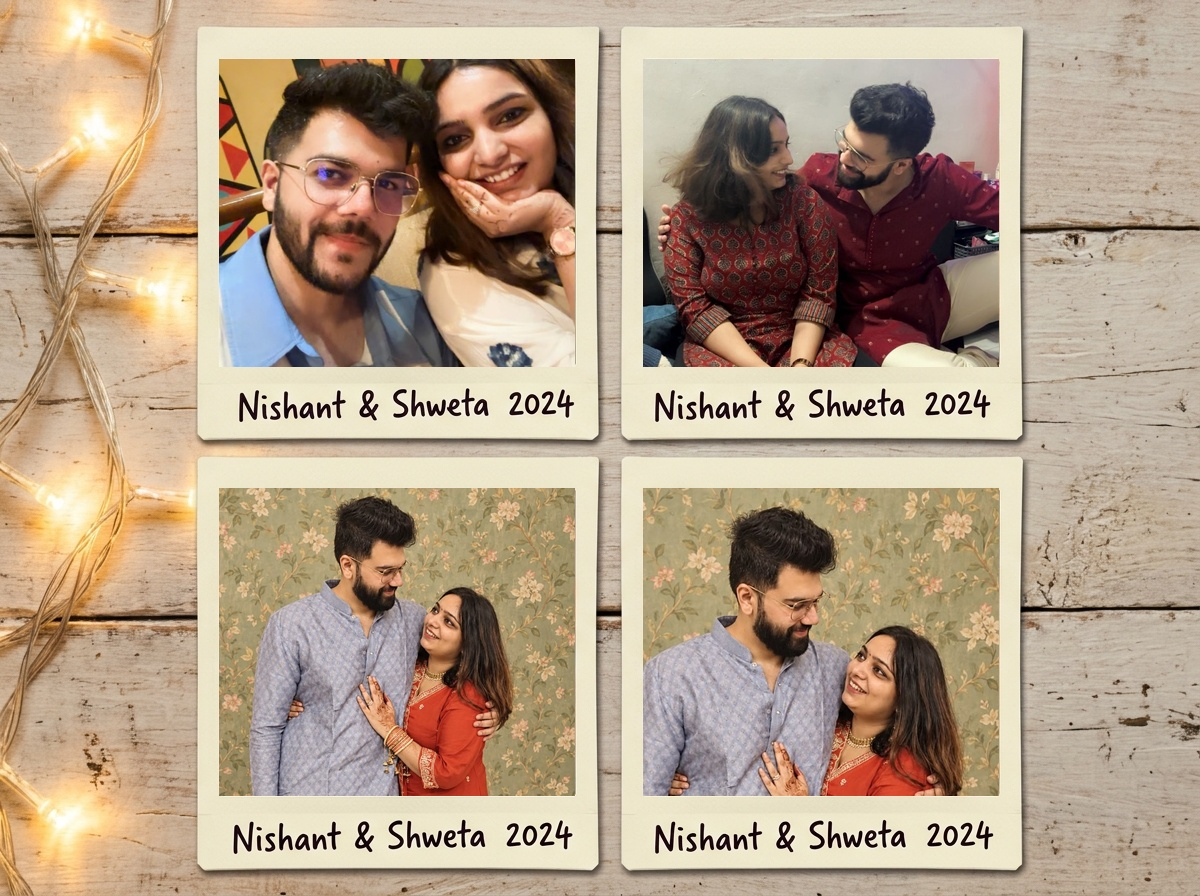
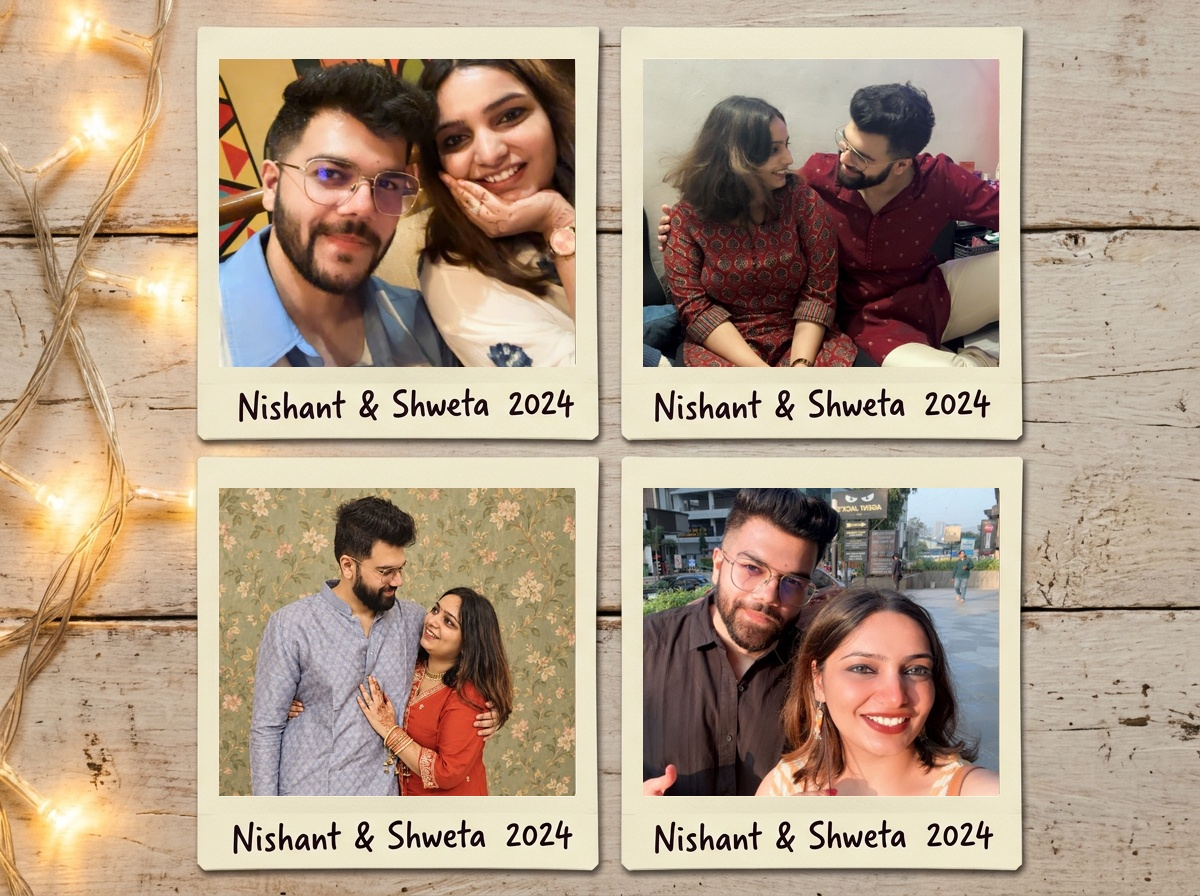
Update chapter 1 couple photo, complete 4-photo story collage, and update ceremony time to 12:20 PM

Changed region(s): [[0.5242, 0.5312, 0.8325, 0.9062]]

diff --git a/js/main.js b/js/main.js
@@ -294,7 +294,7 @@ document.addEventListener('DOMContentLoaded', () => {
   }
 
   // --- 8. REAL-TIME COUNTDOWN TIMER ---
-  const weddingDate = new Date('2026-12-12T12:00:00+05:30').getTime();
+  const weddingDate = new Date('2026-12-12T12:20:00+05:30').getTime();
 
   function updateCountdown() {
     const now = new Date().getTime();
@@ -332,9 +332,9 @@ document.addEventListener('DOMContentLoaded', () => {
   if (btnGoogleCal) {
     btnGoogleCal.addEventListener('click', () => {
       const title = encodeURIComponent("Wedding Celebration of Nishant & Shweta");
-      const details = encodeURIComponent("Together with our families, we joyfully invite you to celebrate our royal wedding!\n\nTiming: 12:00 PM Onwards\nVenue: Bhanushali Wadi Banquet Hall, Nerul East, Navi Mumbai");
+      const details = encodeURIComponent("Together with our families, we joyfully invite you to celebrate our royal wedding!\n\nTiming: 12:20 PM Onwards\nVenue: Bhanushali Wadi Banquet Hall, Nerul East, Navi Mumbai");
       const location = encodeURIComponent("Bhanushali Wadi Banquet Hall, Basteshwar Maharaj Marg, Sector 10A, Nerul East, Navi Mumbai 400706");
-      const startIso = "20261212T063000Z";
+      const startIso = "20261212T065000Z";
       const endIso = "20261212T173000Z";
       const url = `https://calendar.google.com/calendar/render?action=TEMPLATE&text=${title}&dates=${startIso}/${endIso}&details=${details}&location=${location}`;
       window.open(url, '_blank');
@@ -354,7 +354,7 @@ document.addEventListener('DOMContentLoaded', () => {
         'BEGIN:VEVENT',
         'UID:nishant-shweta-wedding-2026@wedding.invitation',
         'DTSTAMP:20261212T000000Z',
-        'DTSTART:20261212T063000Z',
+        'DTSTART:20261212T065000Z',
         'DTEND:20261212T173000Z',
         'SUMMARY:Nishant & Shweta Royal Wedding',
         'DESCRIPTION:Together with our families, we joyfully invite you to celebrate the wedding of Nishant & Shweta.',
@@ -419,7 +419,7 @@ document.addEventListener('DOMContentLoaded', () => {
         `Together with our families, we joyfully invite you to celebrate the wedding of\n` +
         `*Nishant & Shweta*\n\n` +
         `🗓 Date: Saturday, 12 December 2026\n` +
-        `⏰ Timing: 12:00 PM Onwards\n` +
+        `⏰ Timing: 12:20 PM Onwards\n` +
         `📍 Venue: Bhanushali Wadi Banquet Hall, Nerul East, Navi Mumbai\n\n` +
         `Open our royal interactive wedding card:\n${inviteUrl}`
       );

diff --git a/index.html b/index.html
@@ -285,7 +285,7 @@
           <div class="scene-visual-col">
             <div class="hero-photo-showcase">
               <div class="photo-gold-border-decor" aria-hidden="true"></div>
-              <img src="assets/images/couple_palace_walk.jpg" alt="Nishant &amp; Shweta Palace Walk" class="hero-photo-img" loading="lazy">
+              <img src="assets/images/couple_palace_walk.jpg" alt="Nishant &amp; Shweta" class="hero-photo-img" loading="lazy">
               <div class="photo-caption-badge">
                 <span class="badge-script">Nishant &amp; Shweta</span>
                 <span class="badge-location">Palace Courtyard</span>
@@ -392,7 +392,7 @@
               </p>
               <div class="venue-timing-badge">
                 <svg width="16" height="16" viewBox="0 0 24 24" fill="none" stroke="currentColor" stroke-width="2"><circle cx="12" cy="12" r="10"/><polyline points="12 6 12 12 16 14"/></svg>
-                <span>CEREMONIES COMMENCE AT 12:00 PM ONWARDS</span>
+                <span>CEREMONIES COMMENCE AT 12:20 PM ONWARDS</span>
               </div>
             </div>
 
